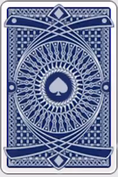
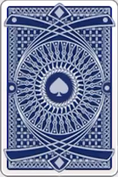
Use source captures for alternate card backs

diff --git a/tests/solitaire.spec.js b/tests/solitaire.spec.js
@@ -835,9 +835,16 @@ test('theme gallery switches backgrounds, card backs, and face styles on mobile'
   await expect.poll(() => page.locator('.back-tile[data-value="blue"] img').evaluate((image) => image.naturalWidth === 118 && image.naturalHeight === 177)).toBe(true);
   await expect(page.locator('.back-tile[data-value="ruby"] .back-preview-source img')).toHaveCount(2);
   await page.screenshot({ path: 'test-results/theme-gallery-mobile.png' });
-  await page.getByRole('button', { name: 'Teal diamonds' }).click();
-  await expect(page.locator('body')).toHaveAttribute('data-card-back', 'teal');
-  await expect(page.locator('.stock-slot .card-back-art')).toHaveAttribute('src', '/assets/cards/back-teal-reference.png');
+  for (const [name, value] of [
+    ['Teal diamonds', 'teal'], ['Blue lattice', 'lattice'], ['Blue diamonds', 'blue'],
+    ['Blue spade', 'spade'], ['Coral geometric', 'coral'], ['Red floral', 'floral'],
+    ['Amber diamonds', 'amber'],
+  ]) {
+    await page.getByRole('button', { name }).click();
+    await expect(page.locator('body')).toHaveAttribute('data-card-back', value);
+    await expect(page.locator('.stock-slot .card-back-art')).toHaveAttribute('src', `/assets/cards/back-${value}-reference.png`);
+    await expect.poll(() => page.locator('.stock-slot .card-back-art').evaluate((image) => image.complete && image.naturalWidth === 118 && image.naturalHeight === 177)).toBe(true);
+  }
 
   await page.getByRole('button', { name: 'Card faces' }).click();
   await expect(page.locator('.gallery-tabs-reference')).toHaveAttribute('src', '/assets/ui/theme-gallery-tabs-faces-reference.png');
@@ -856,7 +863,7 @@ test('theme gallery switches backgrounds, card backs, and face styles on mobile'
   await expect(page.locator('body')).toHaveAttribute('data-card-face-style', 'master');
   await page.getByRole('button', { name: 'Close dialog' }).click();
   await page.reload();
-  await expect(page.locator('body')).toHaveAttribute('data-card-back', 'teal');
+  await expect(page.locator('body')).toHaveAttribute('data-card-back', 'amber');
   await expect(page.locator('body')).toHaveAttribute('data-card-face-style', 'master');
   await expect(page.locator('body')).not.toHaveClass(/source-action-row/);
 });
@@ -1401,7 +1408,7 @@ test('the board fits a 320px phone and the installed shell loads offline', async
   await page.goto('/');
   await page.evaluate(() => navigator.serviceWorker.ready);
   const cacheNames = await page.evaluate(() => caches.keys());
-  expect(cacheNames).toContain('solitaire-master-v51');
+  expect(cacheNames).toContain('solitaire-master-v52');
   await expect.poll(() => page.evaluate(async () => {
     const response = await fetch('/assets/audio/auto-collect-reference.wav');
     return response.ok && response.headers.get('content-type') === 'audio/x-wav';
@@ -1454,11 +1461,12 @@ test('the board fits a 320px phone and the installed shell loads offline', async
     return { ok: response.ok, type: response.headers.get('content-type') };
   });
   expect(offlineCardBackTransition).toEqual({ ok: true, type: 'image/svg+xml' });
-  const offlineThemeBack = await page.evaluate(async () => {
-    const response = await fetch('/assets/cards/back-teal-reference.png');
-    return { ok: response.ok, type: response.headers.get('content-type') };
-  });
-  expect(offlineThemeBack).toEqual({ ok: true, type: 'image/png' });
+  const offlineThemeBacks = await page.evaluate(async () => Promise.all(['teal', 'lattice', 'blue', 'spade', 'coral', 'floral', 'amber'].map(async (name) => {
+    const response = await fetch(`/assets/cards/back-${name}-reference.png`);
+    const image = await createImageBitmap(await response.blob());
+    return { ok: response.ok, type: response.headers.get('content-type'), width: image.width, height: image.height };
+  })));
+  expect(offlineThemeBacks).toEqual(Array(7).fill({ ok: true, type: 'image/png', width: 118, height: 177 }));
   const offlineAmazingCue = await page.evaluate(async () => {
     const response = await fetch('/assets/audio/combo-amazing-reference.wav');
     return { ok: response.ok, audioType: response.headers.get('content-type')?.startsWith('audio/'), bytes: (await response.arrayBuffer()).byteLength };

diff --git a/sw.js b/sw.js
@@ -1,4 +1,4 @@
-const CACHE = 'solitaire-master-v51';
+const CACHE = 'solitaire-master-v52';
 const CACHE_PREFIX = 'solitaire-master-v';
 const cardRanks = ['ace', '2', '3', '4', '5', '6', '7', '8', '9', '10', 'jack', 'queen', 'king'];
 const cardSuits = ['spades', 'hearts', 'diamonds', 'clubs'];

diff --git a/tools/extract_source_card_backs.py b/tools/extract_source_card_backs.py
@@ -1,0 +1,48 @@
+#!/usr/bin/env python3
+"""Extract the six remaining unselected card backs from the Back Style frame."""
+
+from __future__ import annotations
+
+import argparse
+from pathlib import Path
+
+from PIL import Image
+
+
+ROOT = Path(__file__).resolve().parents[1]
+OUTPUT = ROOT / "assets" / "cards"
+SOURCE_RECTS = {
+    "teal": (100, 513, 300, 813),
+    "lattice": (342, 513, 542, 813),
+    "spade": (100, 869, 300, 1169),
+    "coral": (583, 869, 783, 1169),
+    "floral": (100, 1224, 300, 1524),
+    "amber": (342, 1224, 542, 1524),
+}
+SOURCE_SIZE = (884, 1920)
+CARD_CROP_SIZE = (200, 300)
+TARGET_SIZE = (118, 177)
+
+
+def main() -> None:
+    parser = argparse.ArgumentParser(description=__doc__)
+    parser.add_argument("source_frame", type=Path, help="884×1920 frame at 327 s / PTS 5022720")
+    parser.add_argument("--output-dir", type=Path, default=OUTPUT)
+    args = parser.parse_args()
+
+    with Image.open(args.source_frame) as source:
+        if source.size != SOURCE_SIZE:
+            raise ValueError(f"Expected {SOURCE_SIZE[0]}×{SOURCE_SIZE[1]} frame, got {source.size}")
+        rgb = source.convert("RGB")
+        args.output_dir.mkdir(parents=True, exist_ok=True)
+        for name, box in SOURCE_RECTS.items():
+            crop = rgb.crop(box)
+            if crop.size != CARD_CROP_SIZE:
+                raise ValueError(f"Unexpected crop size for {name}: {crop.size}")
+            target = args.output_dir / f"back-{name}-reference.png"
+            crop.resize(TARGET_SIZE, Image.Resampling.LANCZOS).save(target)
+            print(f"{target.name}: source box={box}, target={TARGET_SIZE[0]}×{TARGET_SIZE[1]}")
+
+
+if __name__ == "__main__":
+    main()

diff --git a/assets/cards/README.md b/assets/cards/README.md
@@ -6,7 +6,19 @@ The source deck credits public-domain court-card art from vector-playing-cards, 
 
 `back-solitaire-master-source.png` is the unmodified 118×177 crop at `(758,429)` from PTS 153600 (10s) in the 884×1920 gameplay frame; it preserves the source stock's baked-in `24` counter and is used while all 24 cards remain. `back-solitaire-master-reference.png` is the same crop with the stock counter and its translucent badge cleared. A vector underlay restores the pattern in that small area on lower-count stock cards, tableau stacks, and gallery previews. `back-solitaire-master.svg` remains the transition art during deal and flip animations. Both PNGs and the SVG are cached for offline play. Regenerate them with `python3 tools/extract_source_card_back.py` after creating the keyframe described in [`docs/video-frame-audit.md`](../../docs/video-frame-audit.md).
 
[1 lines of base64/hex data omitted]
+At 327 s (PTS 5,022,720), the Back Style gallery shows all eight backs. The seven unselected previews are source crops resized from 200×300 to 118×177. Blue was previously extracted with `python3 tools/extract_source_blue_card_back.py`; extract the other six with `python3 tools/extract_source_card_backs.py`:
+
+| Asset | Source crop `(x1,y1,x2,y2)` | Asset SHA-256 |
+| --- | --- | --- |
[7 lines of base64/hex data omitted]
+
[1 lines of base64/hex data omitted]
 
 The following 118×177 PNGs are crops of matching cards from the gameplay video [`gLd0HXtDt5I`](https://www.youtube.com/watch?v=gLd0HXtDt5I). Coordinates are source pixels in its 884×1920 frames; PTS uses its 1/15360 time base.
 

diff --git a/docs/video-frame-audit.md b/docs/video-frame-audit.md
@@ -75,7 +75,7 @@ The recording opens Themes at 323.000 s (PTS 4,961,280), showing the `Background
 
 The 323 s Backgrounds screenshot shows two short landscape swatches beginning near `(108,489)` and `(469,489)`, then six square previews in two columns beginning at y=676, 1043, and 1412. Source crops now reproduce those eight visible preview artworks and use the measured first-row aspect ratio and grid spacing. Two more tiles are only partially visible from y=1779 to the bottom navigation; their full artwork and the gallery's total item count remain unknown. The default `Dusk` tile and full-screen alternate table textures are still approximations.
 
-At 327 s (PTS 5,022,720), the `Back Style` tab shows all eight card backs. The unselected Blue diamonds preview occupies `(583,513,783,813)` in the 884×1920 source frame; its crop is resized to the game's 118×177 card-back dimensions. Source video, frame, crop, and output hashes plus the extraction command are in [`assets/cards/README.md`](../assets/cards/README.md). This replaces the previously used generic blue vector with source-frame artwork.
+At 327 s (PTS 5,022,720), the `Back Style` tab shows all eight card backs. Seven unselected preview backs—Teal, Lattice, Blue, Spade, Coral, Floral, and Amber—are now captured at their source positions and resized to the game's 118×177 card-back dimensions. The selected Ruby preview has a green frame and check over it, so its unobscured artwork remains the 10-second gameplay crop. Source video/frame hashes, all crop rectangles and output hashes, and reproducible extraction commands are in [`assets/cards/README.md`](../assets/cards/README.md).
 
 ### Observed Auto Collect sequence
 
